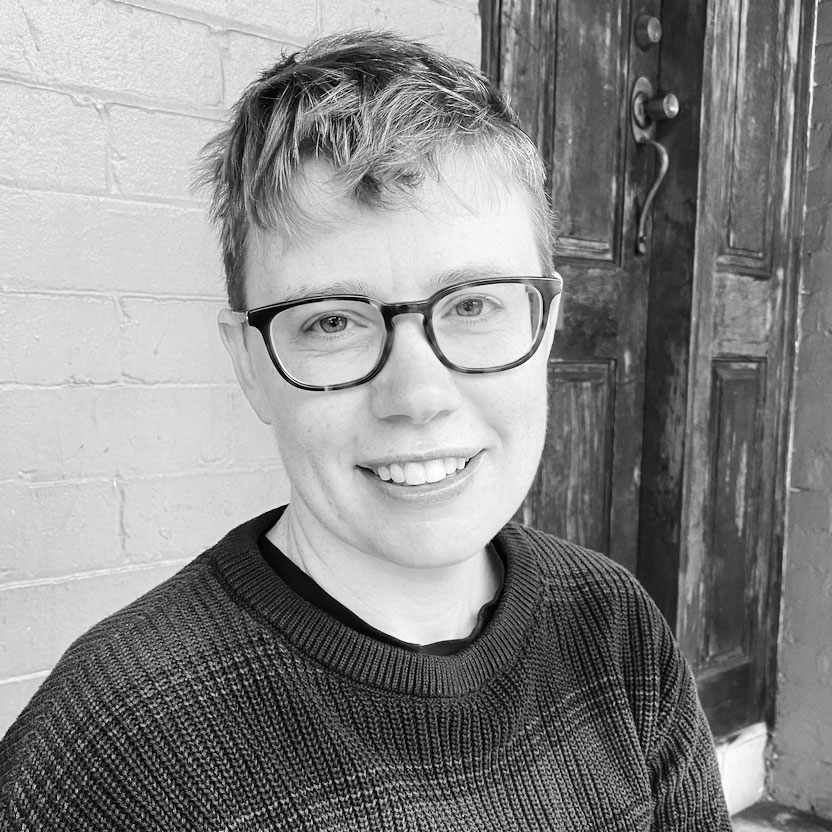
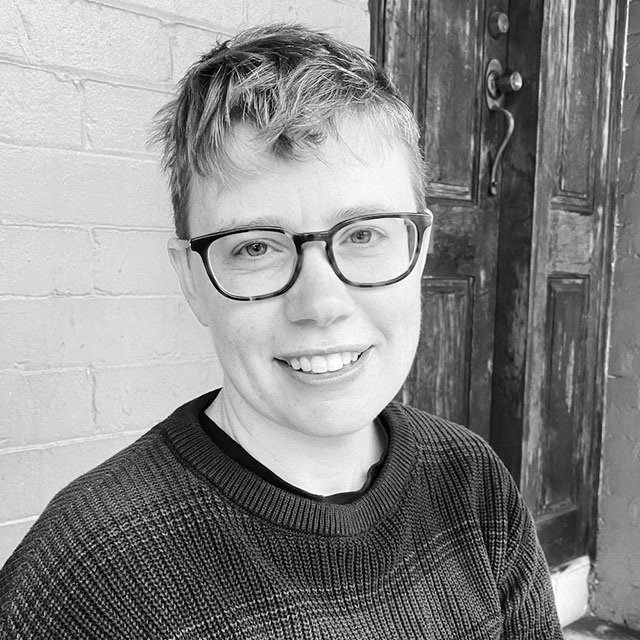
flexbox changes, added sidebar

diff --git a/index.html b/index.html
@@ -20,7 +20,7 @@
         <li><a href="#home">Home</a></li>
         <li><a href="#me">About Me</a></li>
         <li><a href="#work">Work</a></li>
-        <li><a href="#contact">Contact</a></li>
+        <li><a href="#contact">Contact Me</a></li>
       </ul>
     </nav>
   </header>
@@ -28,9 +28,9 @@
 
 
 
-<main>
+  <main>
     <article class="container-1">
-      <section>
+      <section id="me">
         <img src="assets/images/profile-pic.jpg">
       </section>
       <section>
@@ -39,44 +39,36 @@
           the end of the course.</p>
       </section>
 
- 
+
 
     </article>
 
 
 
 
-    <article class="container-2">
+    <article id="work" class="container-2">
+
       <section class="box-1">
-        <h2>Homework Week 1</h2>
-        <p>This is my homework assignment for week 1, University of Sydney Bootcamp. I've added semantic markup, alt
-          tags
-          and consolidated some css styles.&nbsp;
-          <a id="work" href="https://michellewatts20000.github.io/Homework-Week1-MWatts/">Link to GitHub page</a>
-        </p>
+        <a href="https://michellewatts20000.github.io/Homework-Week1-MWatts/"><img
+            src="assets/images/web-page-homework.png"></a>
       </section>
 
       <section class="box-2">
-        <h2>Spreadsheet automation using GAS</h2>
-        <p>Automating email sends from Google sheets can be used for a service your NGO looks after.&nbsp;<a
-            href="https://github.com/michellewatts20000/GAS-automation">Link to my GitHub repo</a></p>
+        <a href="#"><img src="assets/images/future.gif"></a>
       </section>
 
       <section class="box-3">
-        <h2>Future work placeholder</h2>
-        <p>Eventually I'll have more work that I can add in here.&nbsp;<a href="#">Link to my GitHub repo</a></p>
+        <a href="#"><img src="assets/images/future.gif"></a>
       </section>
       <section class="box-4">
-        <h2>Future work placeholder 2</h2>
-        <p>Eventually I'll have more work that I can add in here.&nbsp;<a
-            href="https://github.com/michellewatts20000/GAS-automation">Link to my GitHub repo</a></p>
+        <a href="#"><img src="assets/images/future.gif"></a>
       </section>
     </article>
 
     <article>
 
-      <section class="container-3">
-        <h2 class="green">Contact</h2>
+      <section id="contact" class="container-3">
+        <h2 class="green">Contact me</h2>
         <p>Email: <a href="mailto:watts.e.michelle@gmail.com">watts.e.michelle@gmail.com</a></p>
         <p>GitHub: <a href="https://github.com/michellewatts20000">github.com/michellewatts20000</a></p>
       </section>

diff --git a/assets/css/style.css b/assets/css/style.css
@@ -32,9 +32,10 @@ header {
 
 
 
-article .container-2, article .container-1{
+article .container-2,
+article .container-1 {
 
-margin-bottom:30px;
+  margin-bottom: 30px;
 }
 
 .container-1,
@@ -54,7 +55,16 @@ margin-bottom:30px;
   flex-direction: row;
   flex-wrap: wrap;
   justify-content: center;
- 
+  width: 100%;
+  padding: 0;
+}
+
+
+.container-2 img {
+  max-width: 100%;
+
+  display: block;
+  align-self: center;
 }
 
 nav ul {
@@ -98,7 +108,7 @@ h2 {
   background: var(--white);
   color: var(--christi);
   display: inline-block;
-  padding-right:15px;
+  padding-right: 15px;
 }
 
 
@@ -130,27 +140,31 @@ p a:visited {
 
 
 .container-2 section {
-  border: solid 1px var(--zeus);
-  margin: 10px;
-  padding: 20px;
- 
+  /* border: solid 1px var(--zeus); */
+  margin: 0px;
+  padding: 0px;
+
 }
 
 
 .box-1 {
-  flex: 3 1 300px;
+  flex: 2 0;
+
 }
 
 .box-2 {
-  flex: 1 1 200px;
+  flex: 1 0;
+  border-right: 1px solid var(--white);
 }
 
 .box-3 {
-  flex: 1 1 200px;
+
+  flex: 1 0;
+  border-right: 1px solid var(--white);
 }
 
 .box-4 {
-  flex: 1 1 200px;
+  flex: 1 0;
 }
 
 
@@ -158,9 +172,9 @@ p a:visited {
 
 
 
-img {
+.container-1 img {
   width: 200px;
-  border-radius: 20px;
+  border-radius: 0px;
 }
 
 
@@ -181,6 +195,7 @@ footer {
     flex-direction: column;
     text-align: center;
   }
+
   .container-1 {
     flex-direction: column;
     align-items: center;
@@ -189,15 +204,15 @@ footer {
 
   .container-2 {
     flex-direction: column;
-    
-    
+
+
   }
 
-.container-3 {
-  flex-direction: column;
-  text-align: center;
-  align-items: stretch;
-}
+  .container-3 {
+    flex-direction: column;
+    text-align: center;
+    align-items: stretch;
+  }
 
 
   nav ul {
@@ -205,6 +220,20 @@ footer {
     flex-direction: column;
     justify-content: space-between;
     min-width: 300px;
+  }
+
+  .box-2 {
+    border-top: 1px solid var(--white);
+    border-right: none;
+  }
+
+  .box-3 {
+    border-top: 1px solid var(--white);
+    border-right: none;
+  }
+  .box-4 {
+    border-top: 1px solid var(--white);
+    border-right: none;
   }
 
 }
